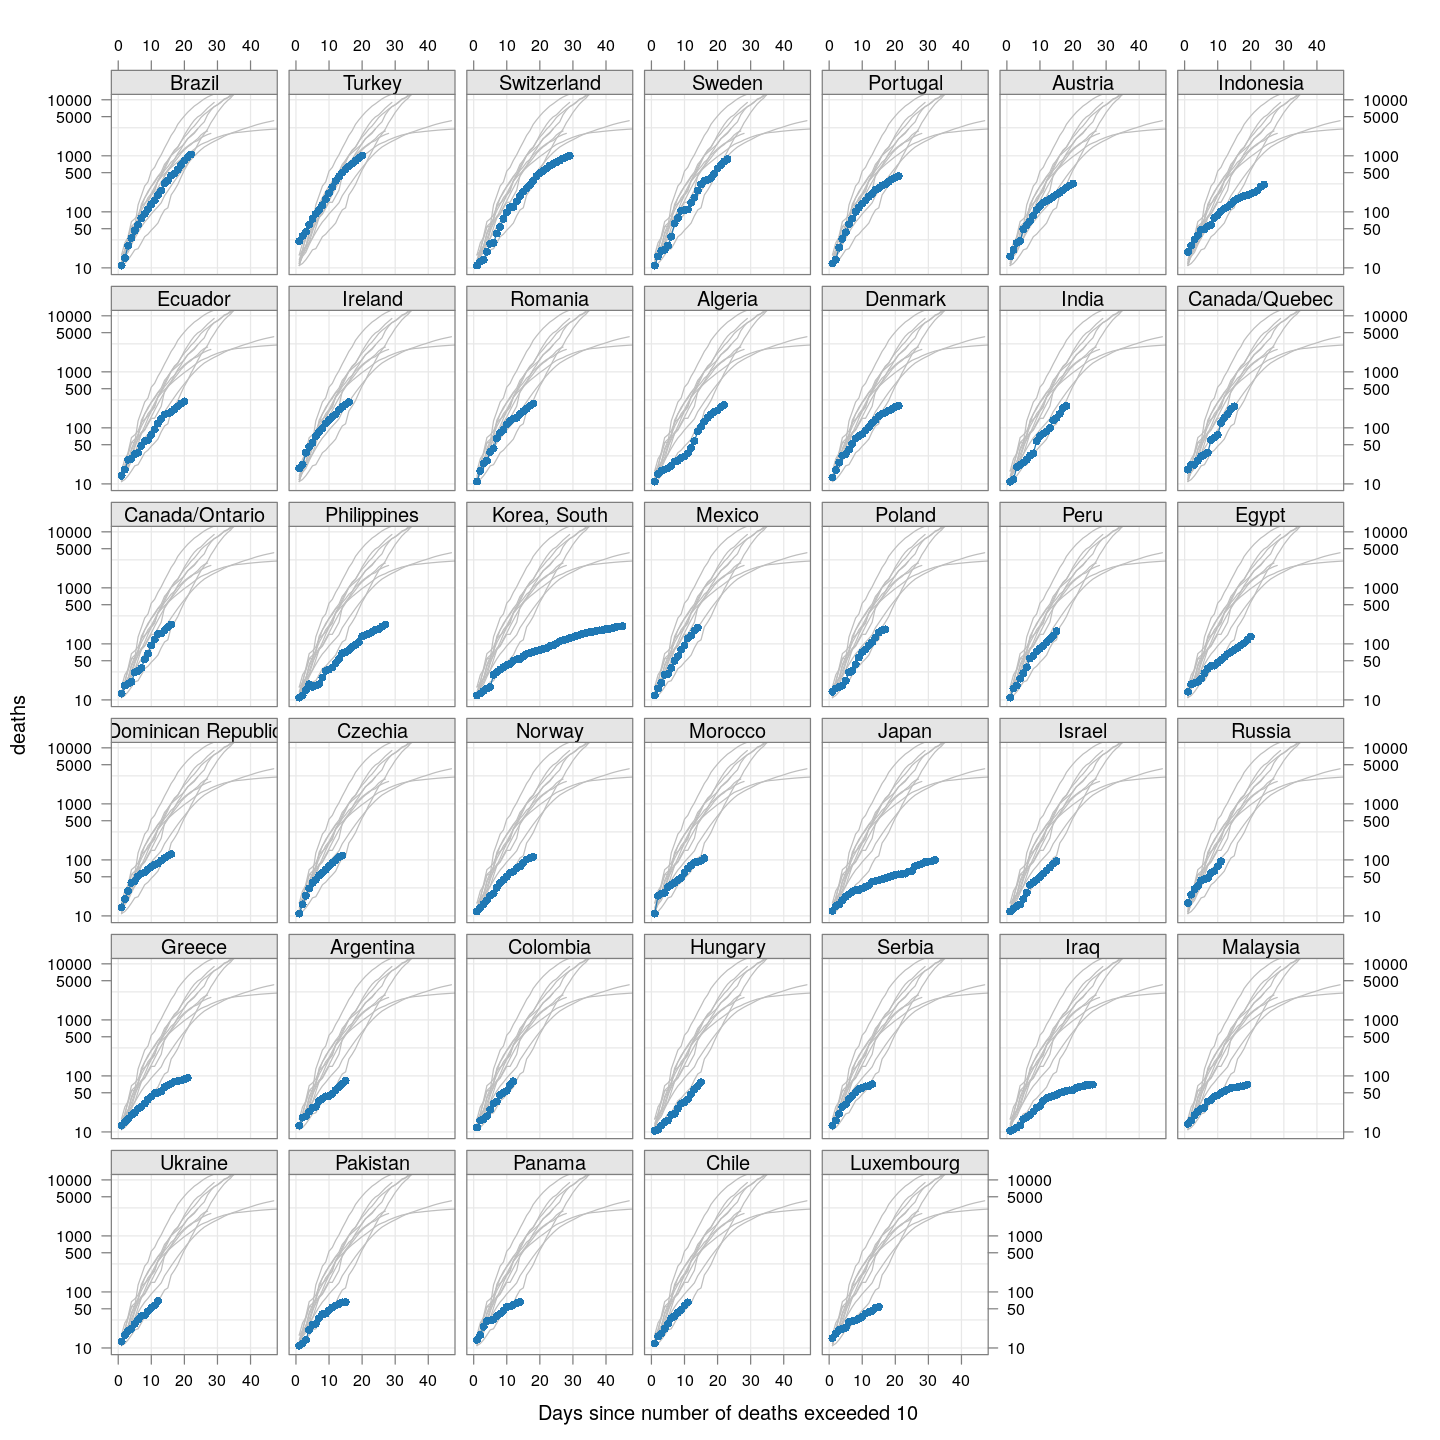
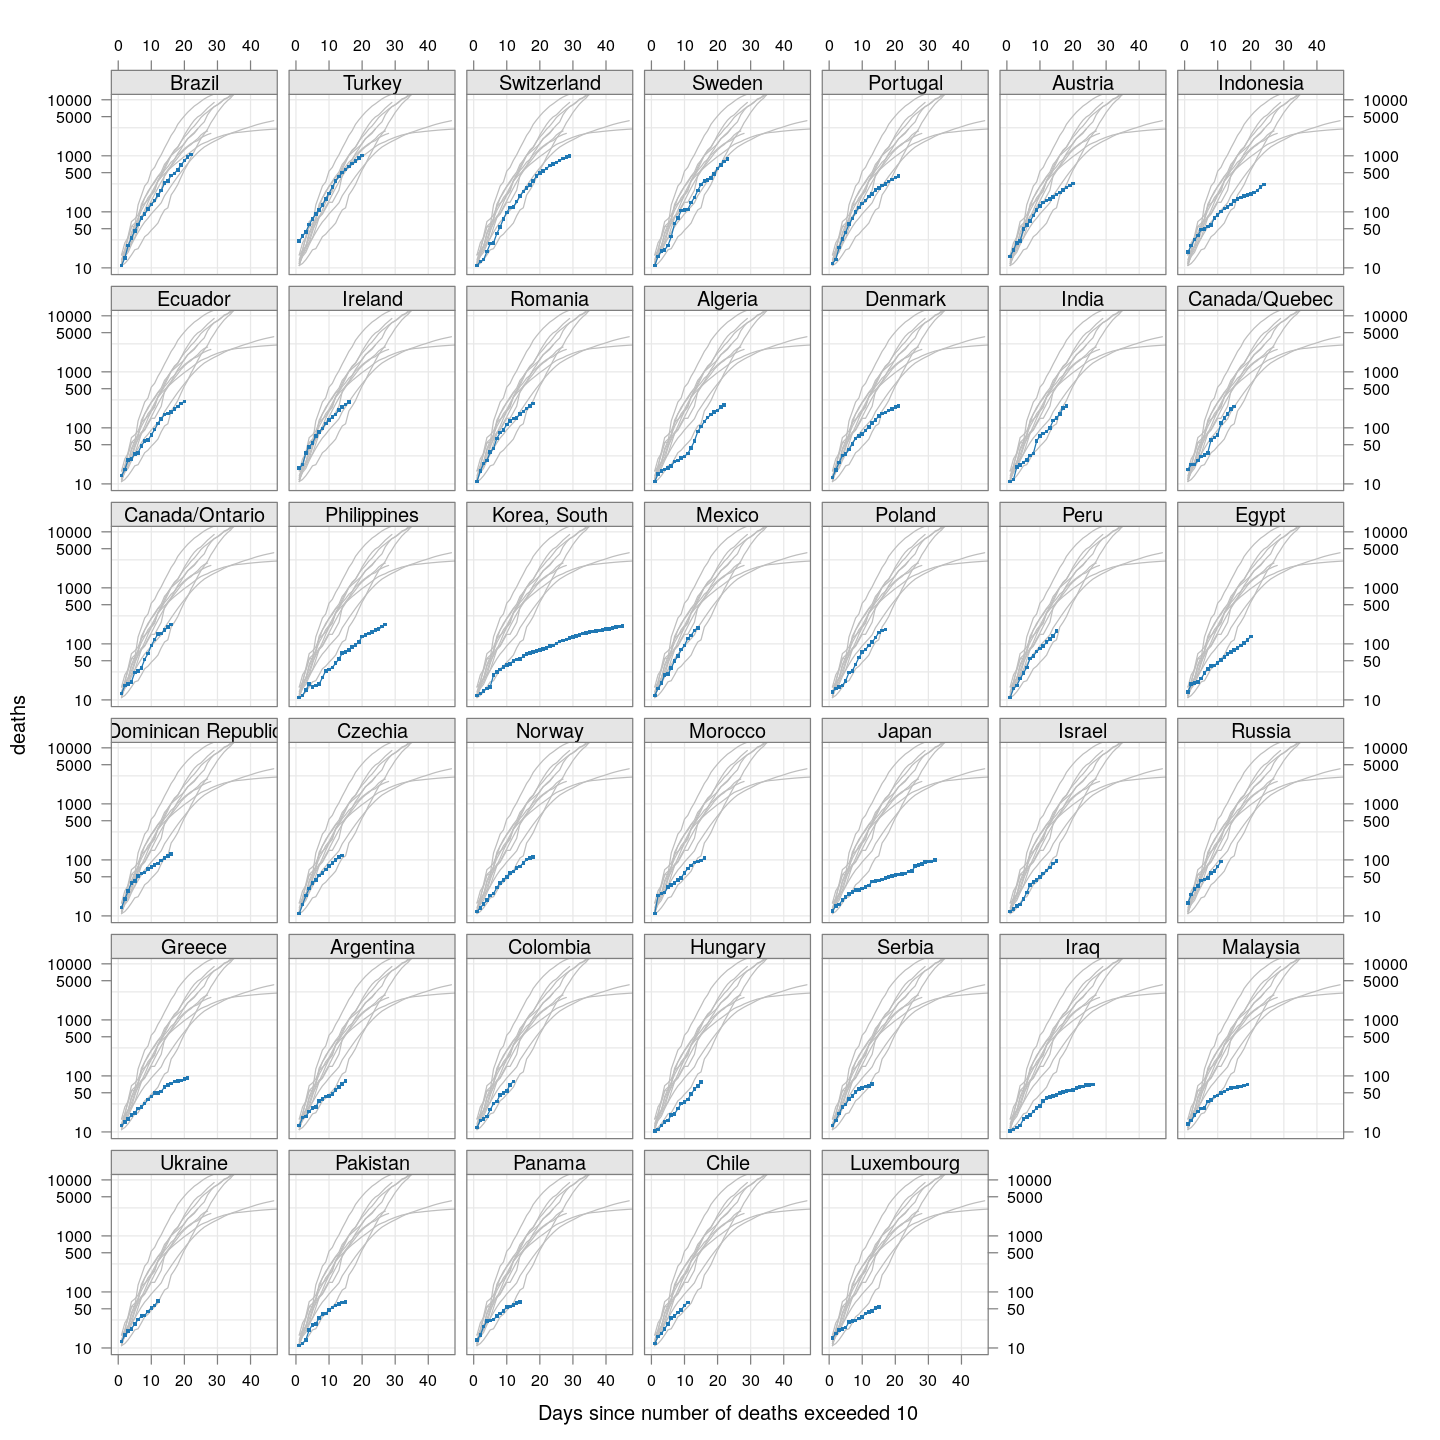
minor updates

diff --git a/covid-19/deaths.md b/covid-19/deaths.md
@@ -246,7 +246,7 @@ with(subset(latest.dr, region == "Europe"),
             ylab = "One week lag-adjusted COVID-19 mortality rate (per cent)",
             xlim = extendrange(range(PPGDP_2018/1000), f = 0.15),
             panel = function(x, y, ...) {
-                panel.abline(lm(y ~ x, weights = tdeaths), col.line = "grey90", lwd = 3)
+                ## panel.abline(lm(y ~ x, weights = tdeaths), col.line = "grey90", lwd = 3)
                 panel.xyplot(x, y, ...)
                 panel.text(x, y, labels = country, pos = 2, srt = 0)
             }))
@@ -254,8 +254,7 @@ with(subset(latest.dr, region == "Europe"),
 
 ![plot of chunk unnamed-chunk-5](figures/deaths-unnamed-chunk-5-1.png)
 
-The grey line is a weighted linear regression line fit with the number
-of deaths as weights.
+<!-- The grey line is a weighted linear regression line fit with the number of deaths as weights. -->
 
 
 
@@ -325,7 +324,7 @@ bg <- xyplot(deaths ~ day, data = subset(deaths.10, total >= 2000), grid = TRUE,
              col = "grey", groups = region, type = "l")
 fg <- 
     xyplot(deaths ~ day | reorder(region, -total), data = subset(deaths.10, total < 2000),
-           xlab = "Days since number of deaths exceeded 10", pch = 16,
+           xlab = "Days since number of deaths exceeded 10", pch = ".", cex = 3, 
            scales = list(alternating = 3, y = list(log = 10, equispaced.log = FALSE)),
            as.table = TRUE, between = list(x = 0.5, y = 0.5),
            type = "o", ylim = c(NA, 12500))
